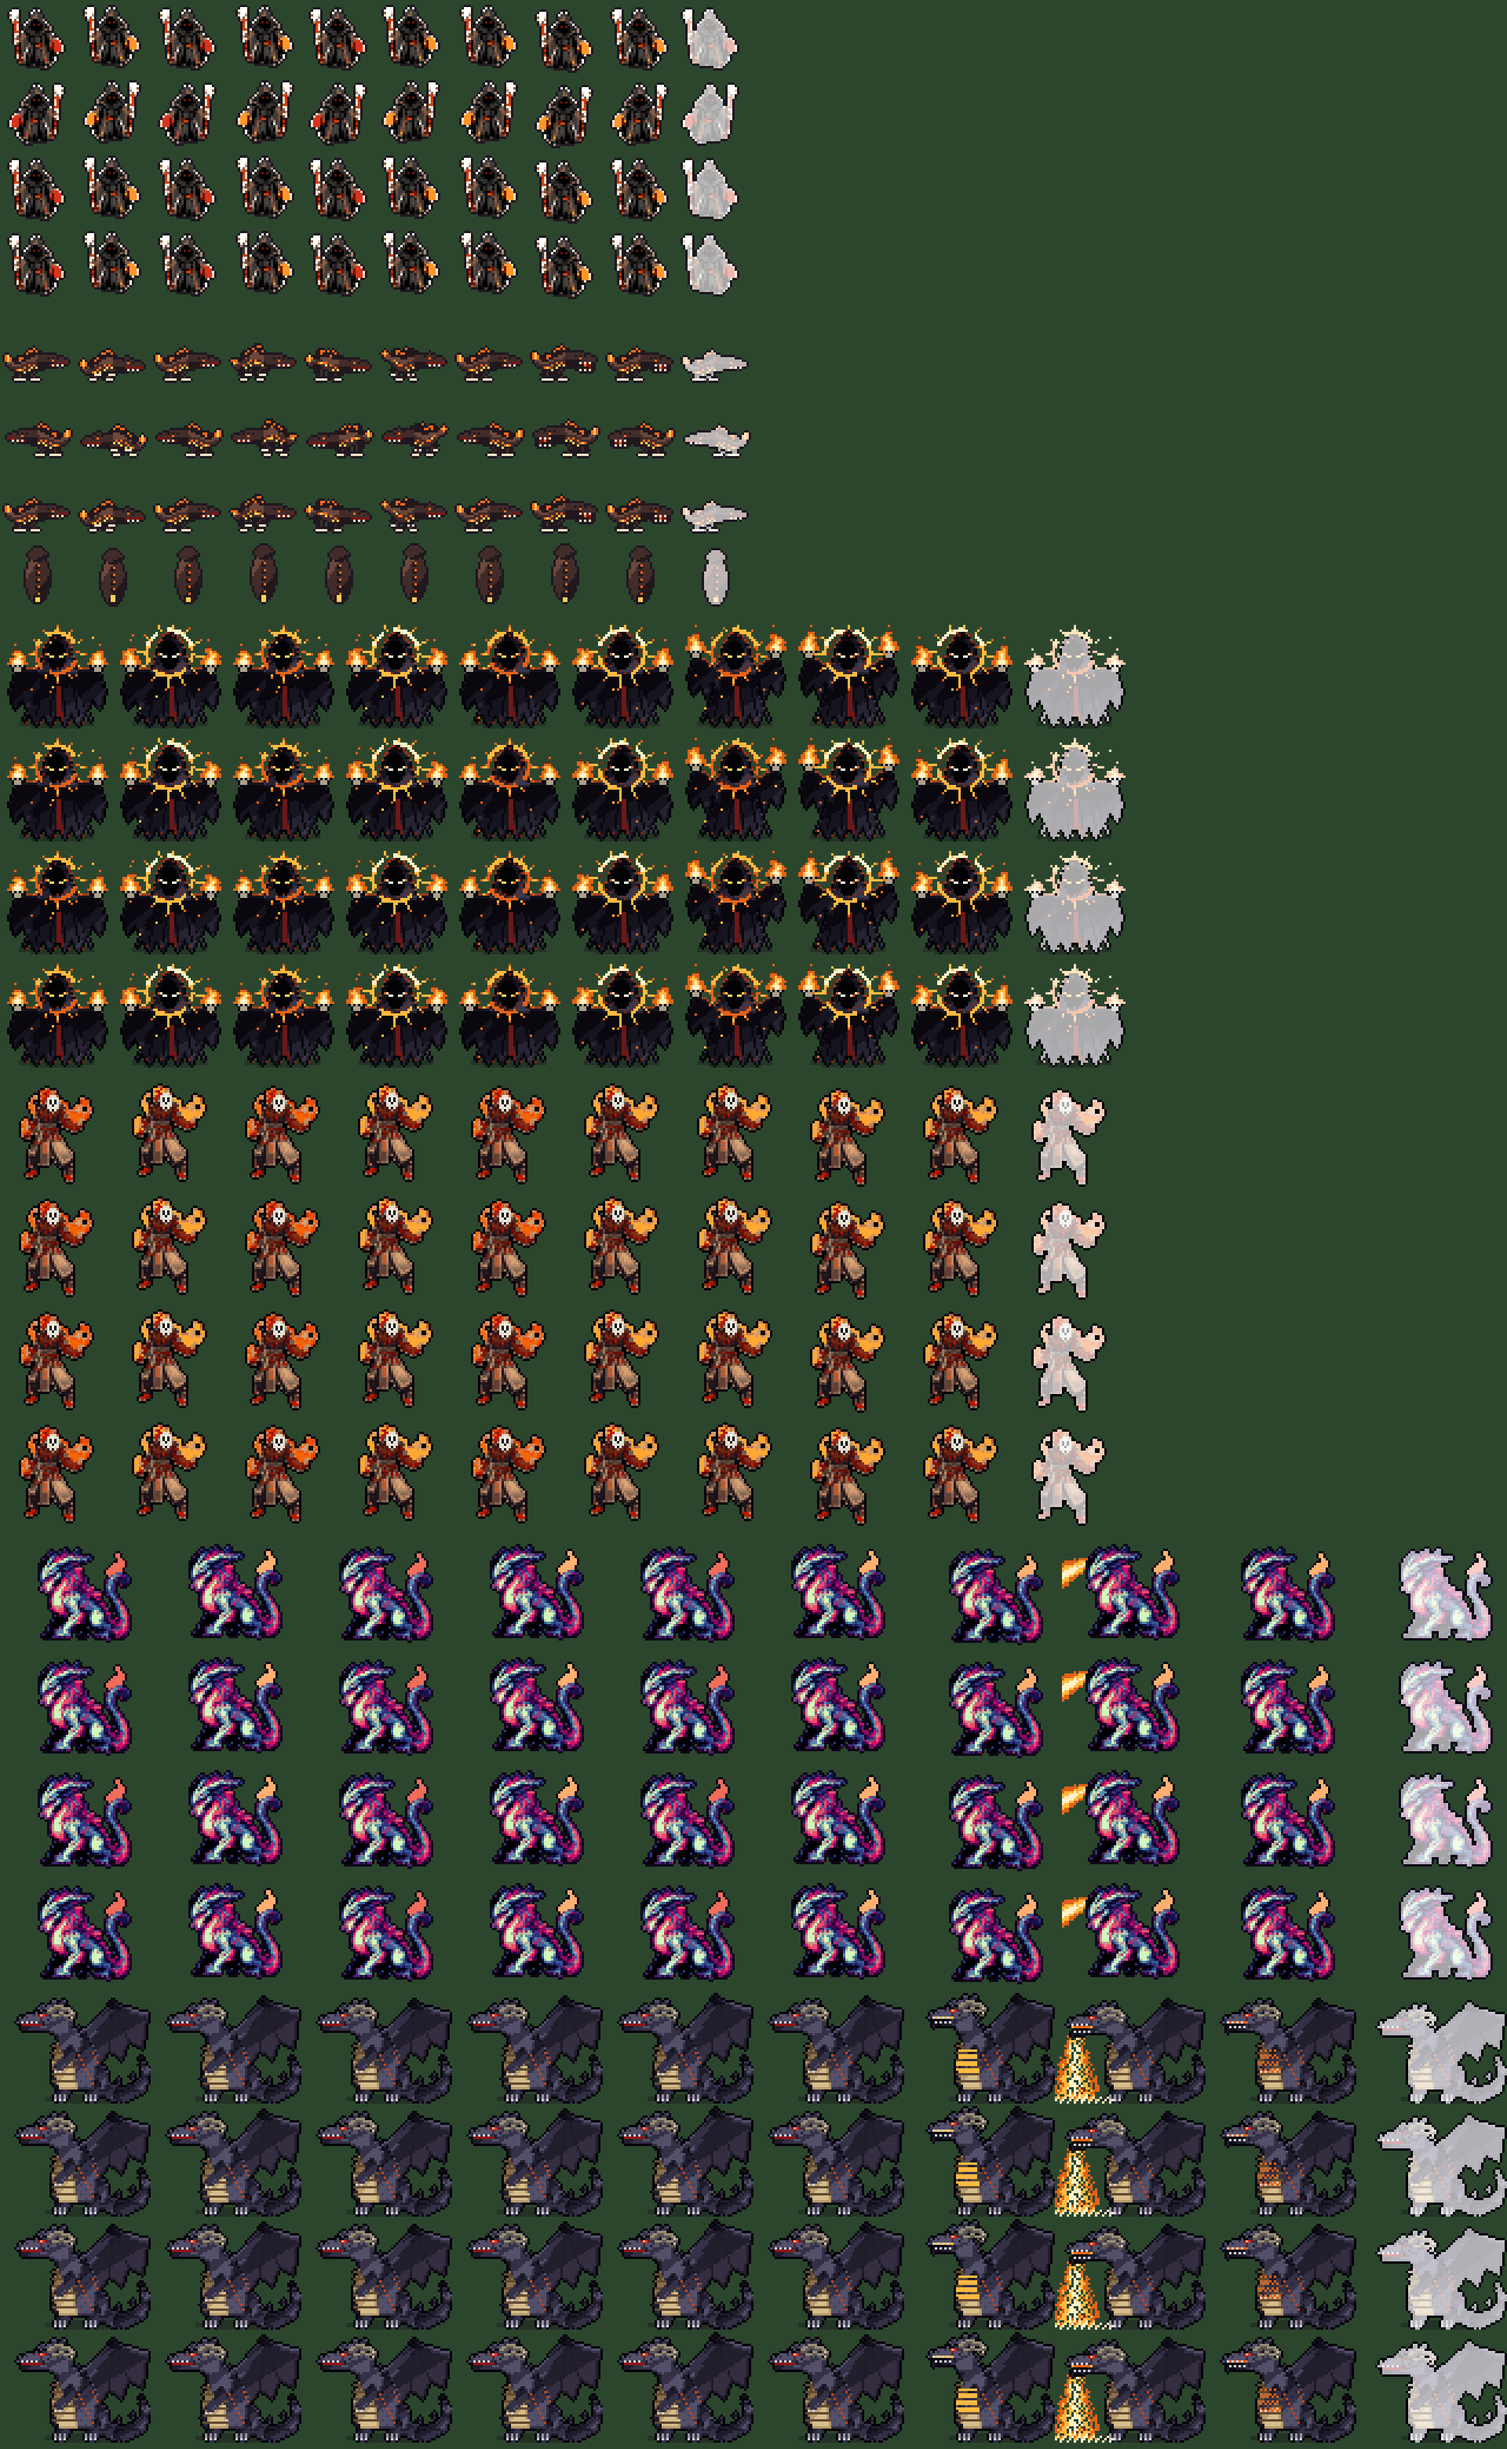
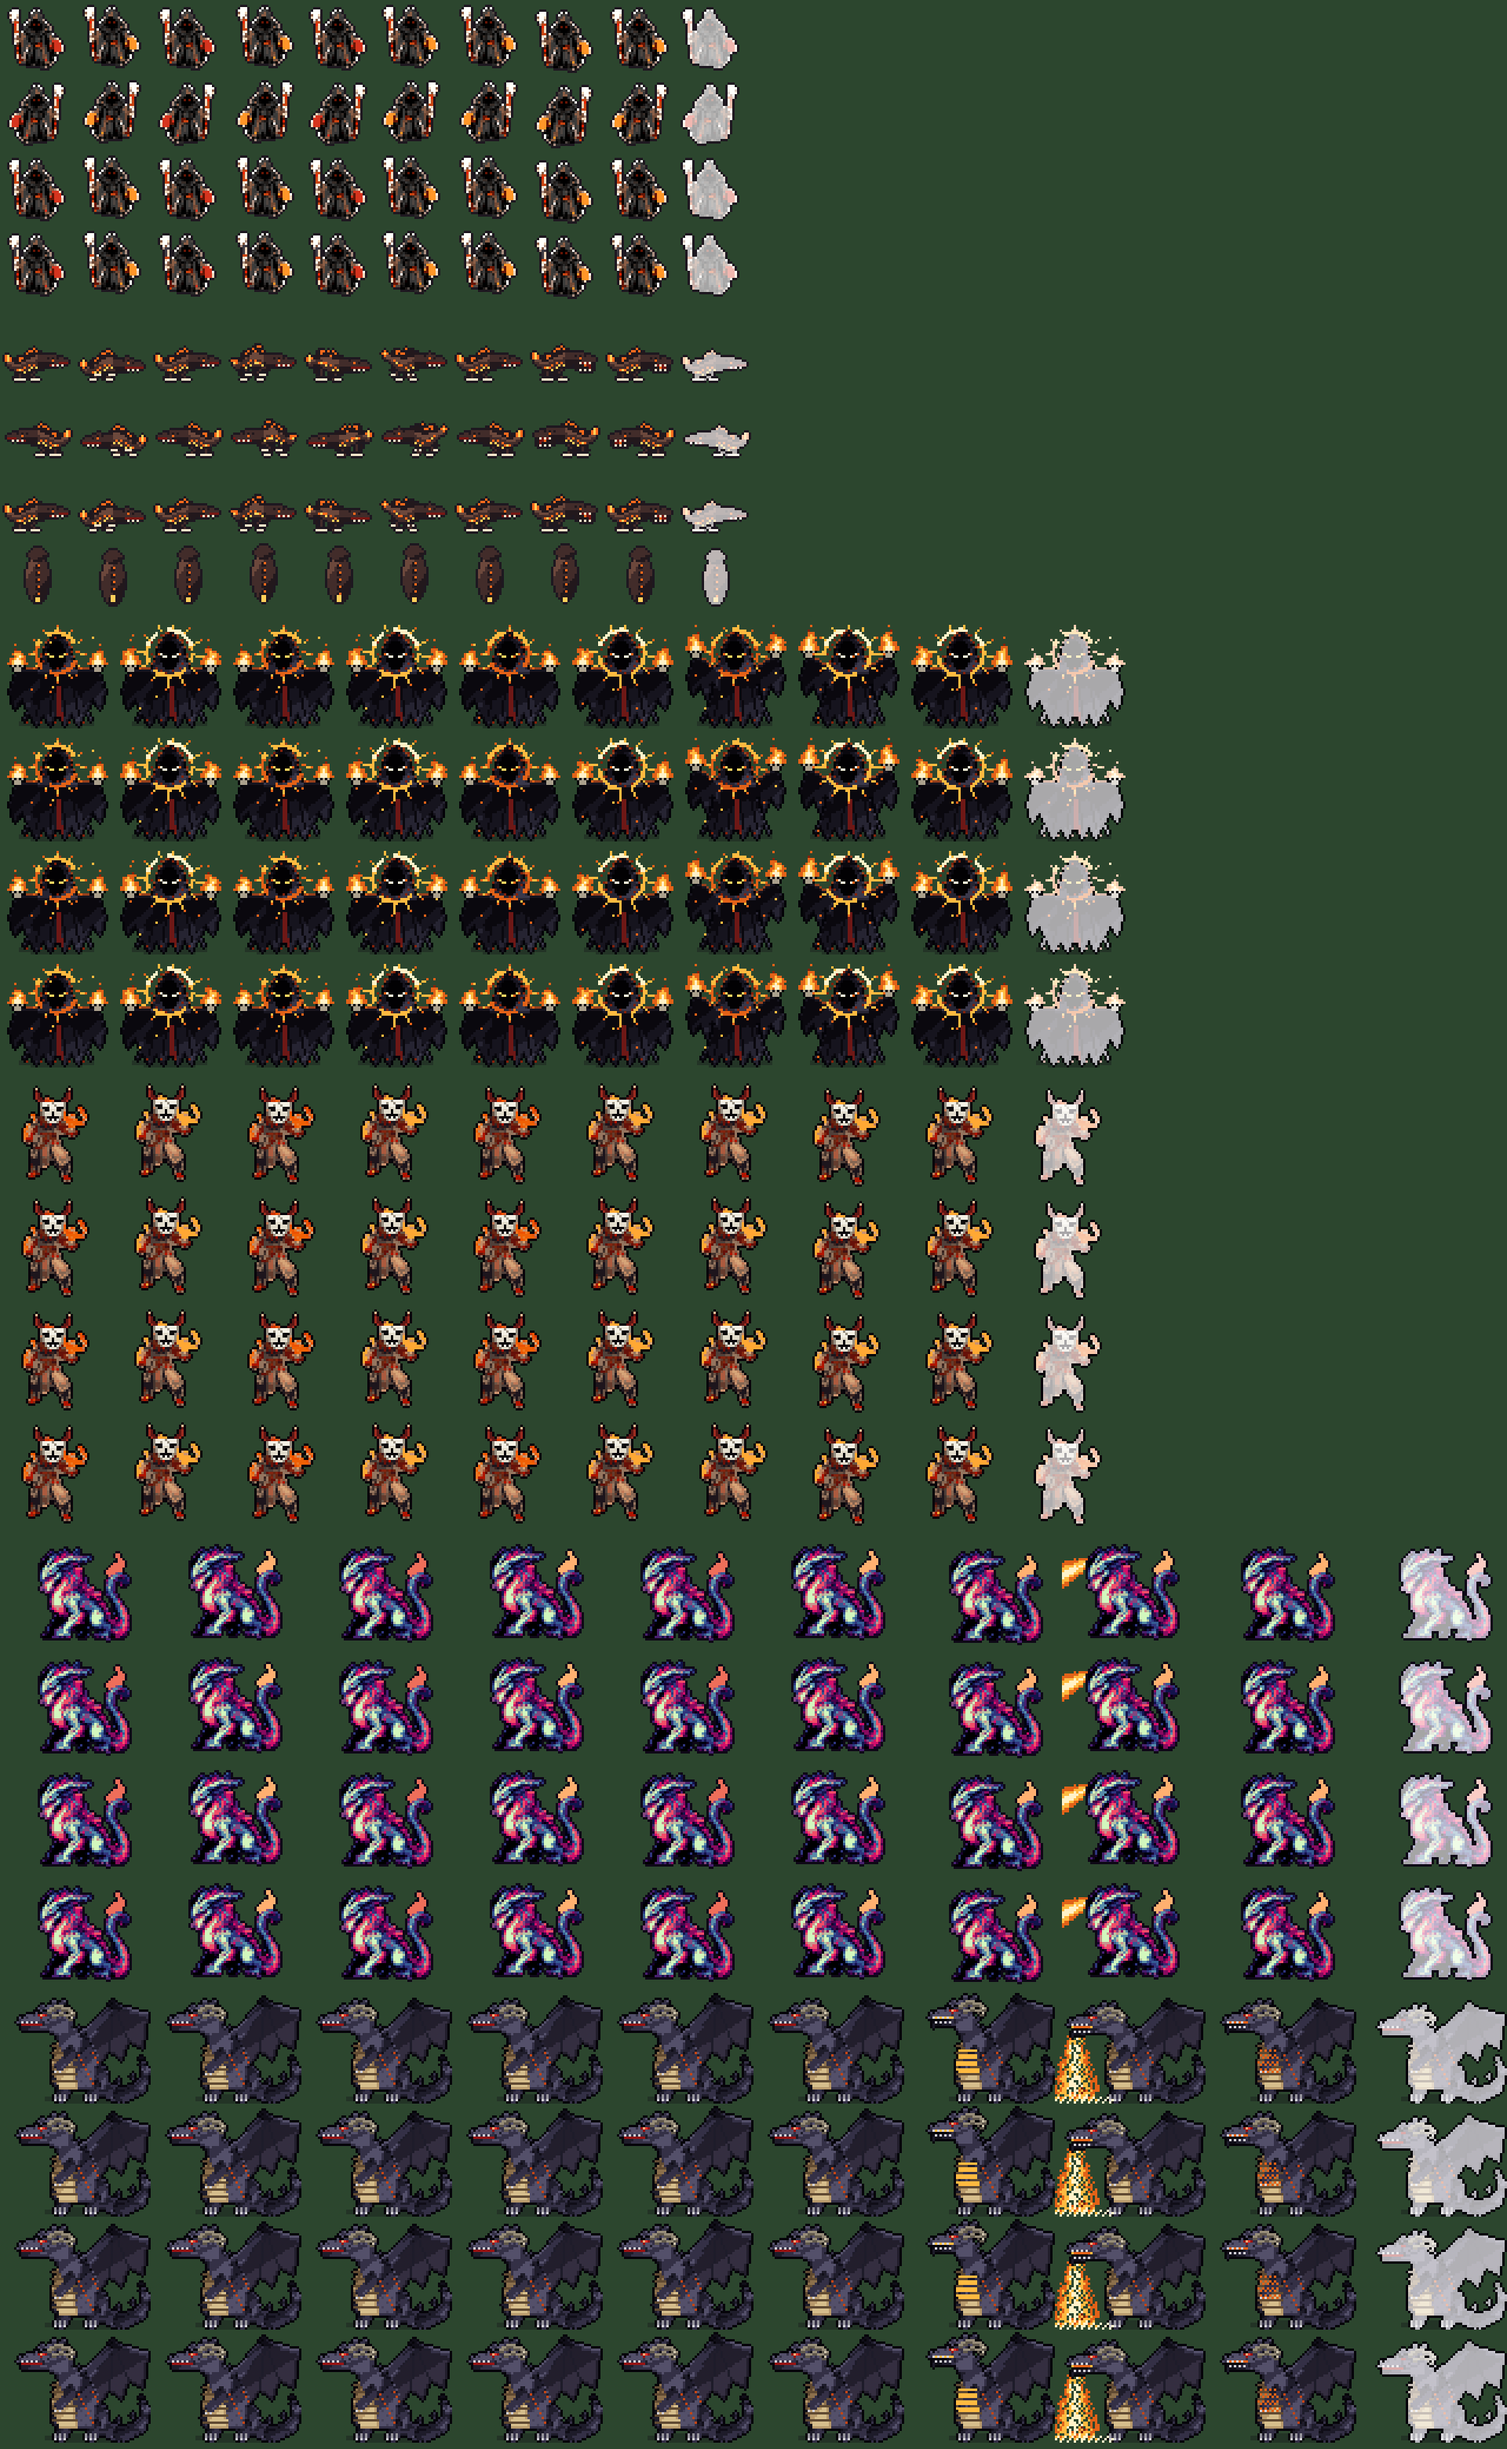
Monje oni: cuernos gruesos en las esquinas de la máscara y calavera más ancha

diff --git a/tools/generadores/monstruos/oni.py b/tools/generadores/monstruos/oni.py
@@ -16,13 +16,13 @@ W, H = 48, 48
 OUT = (8, 4, 10)
 REFERENCIA = os.path.join(os.path.dirname(os.path.abspath(__file__)), "..", "..", "..", "docs", "superpowers",
                           "mockups", "cauce-seco-referencias", "7-oni.jpg")
-ANCHO = 29
+ANCHO = 27
 # La sombra del suelo de la imagen (dos tonos de marrón grisáceo) también cuenta como fondo.
 SOMBRAS = [(160, 133, 122), (175, 148, 137)]
 MASCARA = [(150, 142, 128), (226, 220, 204), (244, 240, 228)]
 HUECO = (10, 6, 10)
-CUERNO = [(110, 24, 20), (170, 50, 36), (222, 138, 92)]  # base, medio y punta clara
-ARRIBA = 2  # filas vacías que se añaden por encima para las puntas de los cuernos
+CUERNO = [(96, 22, 20), (156, 44, 32), (236, 190, 150)]  # rojo oscuro, el lado iluminado y la punta clara
+ARRIBA = 4  # filas vacías que se añaden por encima para las puntas de los cuernos
 CARA = (0.4375, 0.143)  # dónde está la cabeza, como fracción del ancho y del alto de la pose
 LLAMA = [None, (255, 168, 52)]  # el segundo tono de las llamas (el primero es el de la imagen)
 
@@ -39,29 +39,36 @@ def _es_llama(c):
 
 
 def _calavera(grid):
-    """Repinta la máscara de calavera en la cabeza: óvalo claro con dos cuencas, la nariz y la fila de dientes, y
-    los dos cuernos que le salen de la frente."""
+    """Repinta la máscara de calavera: ancha y angulosa, con la frente plana, dos cuencas oblicuas, la boca abierta con
+    dientes y, en las dos esquinas de arriba de la propia máscara, dos cuernos gruesos de rojo oscuro con la punta clara."""
     alto, ancho = len(grid), len(grid[0])
     cx, cy = round(CARA[0] * ancho), round(CARA[1] * (alto - ARRIBA)) + ARRIBA
-    for y in range(cy - 4, cy + 5):
-        for x in range(cx - 3, cx + 4):
-            d = ((x - cx) / 3.0) ** 2 + ((y - cy) / 4.0) ** 2
-            if d <= 1.0 and 0 <= y < alto and 0 <= x < ancho:
-                grid[y][x] = MASCARA[2] if d < 0.35 else (MASCARA[1] if d < 0.8 else MASCARA[0])
-    # Cuernos: nacen en la frente, se abren hacia fuera y suben, y la punta se curva hacia dentro
-    cuerno = [(-3, -3, 0), (-2, -3, 0), (-4, -4, 0), (-3, -4, 1), (-5, -5, 1), (-4, -5, 1), (-5, -6, 1), (-4, -6, 1),
-              (-5, -7, 1), (-4, -8, 2)]
+
+    def pon(x, y, c):
+        if 0 <= y < alto and 0 <= x < ancho:
+            grid[y][x] = c
+
+    # Máscara: de la frente (11 de ancho) al mentón (5), con el borde más oscuro
+    for fila, medio in enumerate((5, 5, 5, 4, 4, 4, 3, 3, 2)):
+        y = cy - 3 + fila
+        for dx in range(-medio, medio + 1):
+            pon(cx + dx, y, MASCARA[0] if abs(dx) == medio else (MASCARA[2] if fila < 3 else MASCARA[1]))
+    pon(cx, cy - 3, MASCARA[0]); pon(cx + 1, cy - 2, MASCARA[0]); pon(cx - 2, cy - 2, MASCARA[0])  # grietas de la frente
+    # Cuencas oblicuas (más altas por fuera) y nariz
+    for s in (-1, 1):
+        pon(cx + s * 4, cy - 1, HUECO); pon(cx + s * 3, cy - 1, HUECO); pon(cx + s * 2, cy - 1, HUECO)
+        pon(cx + s * 3, cy, HUECO); pon(cx + s * 2, cy, HUECO)
+    pon(cx, cy + 1, HUECO); pon(cx, cy + 2, HUECO)
+    # Boca abierta con dientes
+    for dx in (-2, -1, 0, 1, 2):
+        pon(cx + dx, cy + 3, HUECO)
+        pon(cx + dx, cy + 4, MASCARA[2] if dx % 2 == 0 else HUECO)
+    # Cuernos: nacen en las esquinas de arriba de la máscara, gruesos, suben abriéndose y acaban en punta clara
+    cuerno = [(4, -4, 0), (5, -4, 0), (6, -4, 1), (5, -5, 0), (6, -5, 0), (7, -5, 1), (6, -6, 0), (7, -6, 1),
+              (6, -7, 0), (7, -7, 1), (7, -8, 0), (7, -9, 2)]
     for s in (-1, 1):
         for dx, dy, tono in cuerno:
-            x, y = cx - dx if s > 0 else cx + dx, cy + dy
-            if 0 <= y < alto and 0 <= x < ancho:
-                grid[y][x] = CUERNO[tono]
-    for dx in (-1, 1):
-        grid[cy - 1][cx + dx] = HUECO
-        grid[cy][cx + dx] = HUECO
-    grid[cy + 1][cx] = HUECO
-    for dx in (-1, 0, 1):
-        grid[cy + 3][cx + dx] = HUECO if dx == 0 else MASCARA[2]
+            pon(cx + s * dx, cy + dy, CUERNO[tono])
 
 
 def _pose():
